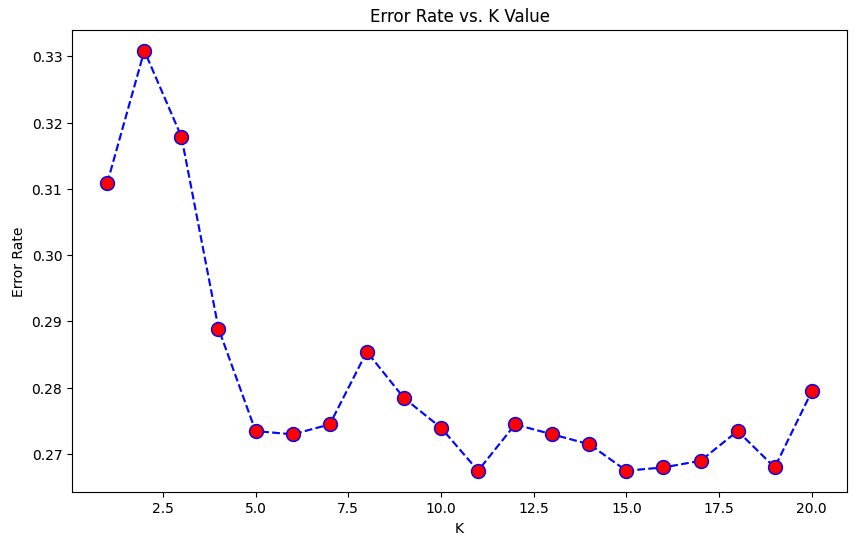
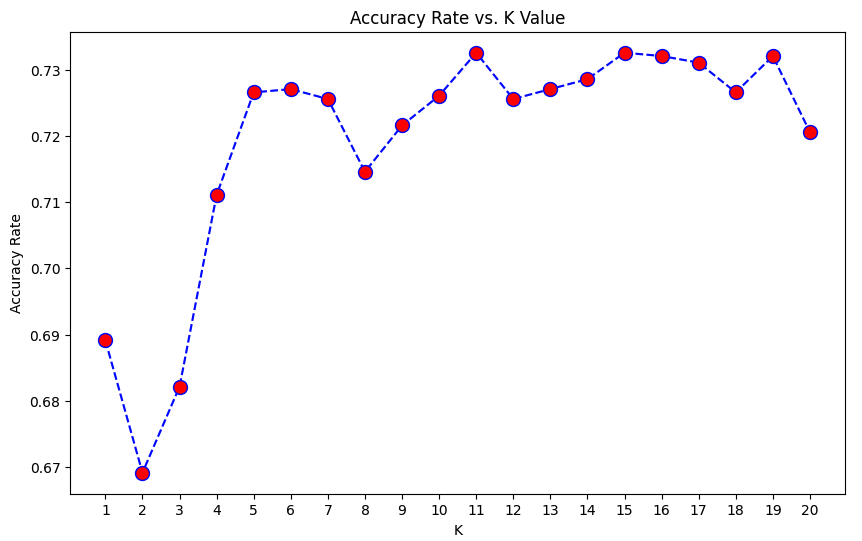
update knn elbow

diff --git a/README.md b/README.md
@@ -47,7 +47,7 @@ We decided to split the dataset into a 80:20 ratio for training and testing.
 To build the optimal KNN, we experimented with 2 methods to choose the best value of _k_ where we arbitrarily set the max _k_ = 15.
 
 1. Elbow Method
-   - We plot each iteration of _k_ with the error rate at that _k_ and choose the _k_ that yields the lowest error rate.
+   - We plot each iteration of _k_ with the accuracy rate at that _k_ and choose the _k_ that yields the highest accuracy rate.
    - Using this method, we found that _k = 11_
      ![elbow-knn-graph](https://github.com/alvionna/twitter-comment-classification/blob/main/images/knn-elbow.png)
 2. Cross Validation Method
